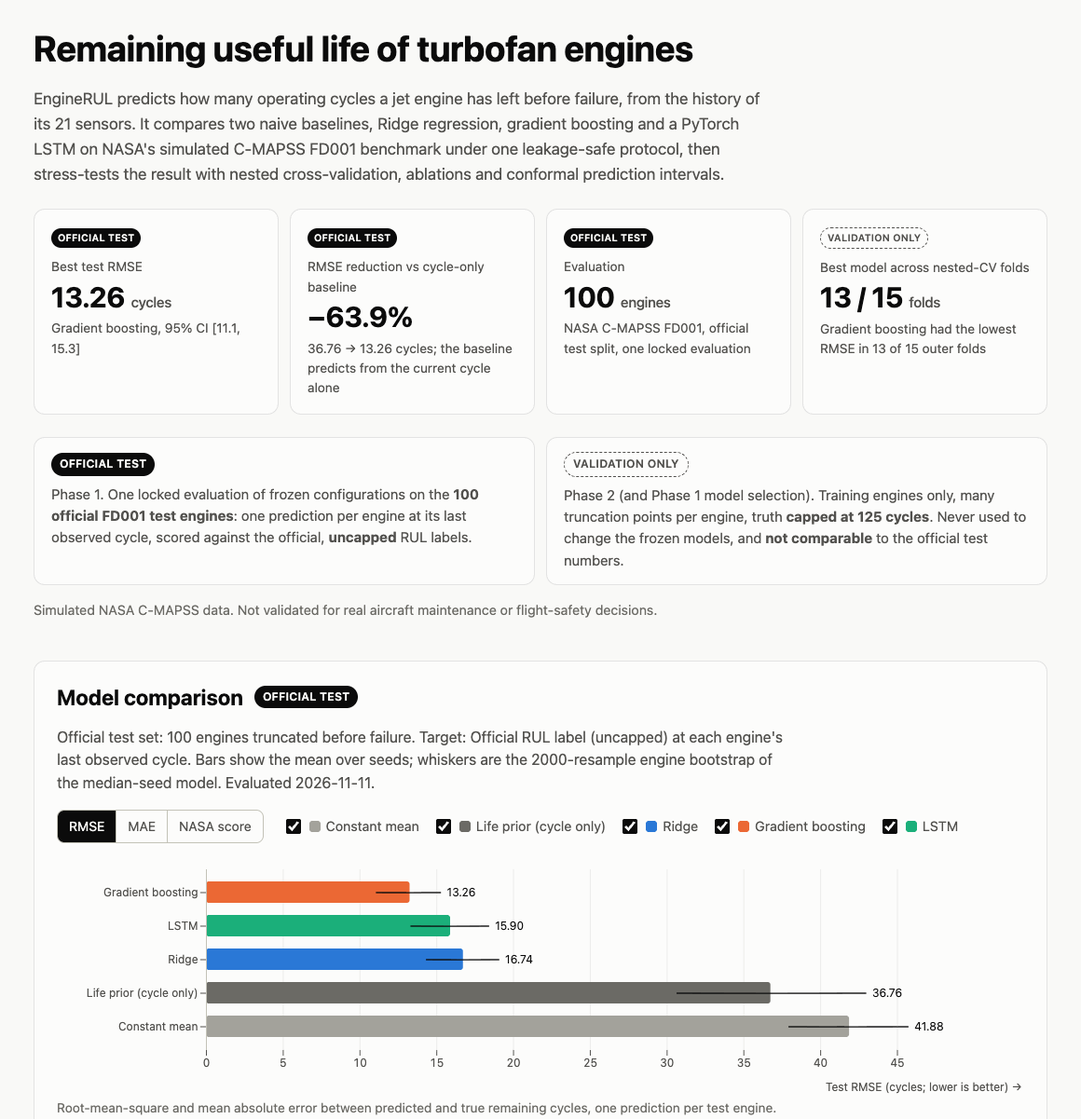
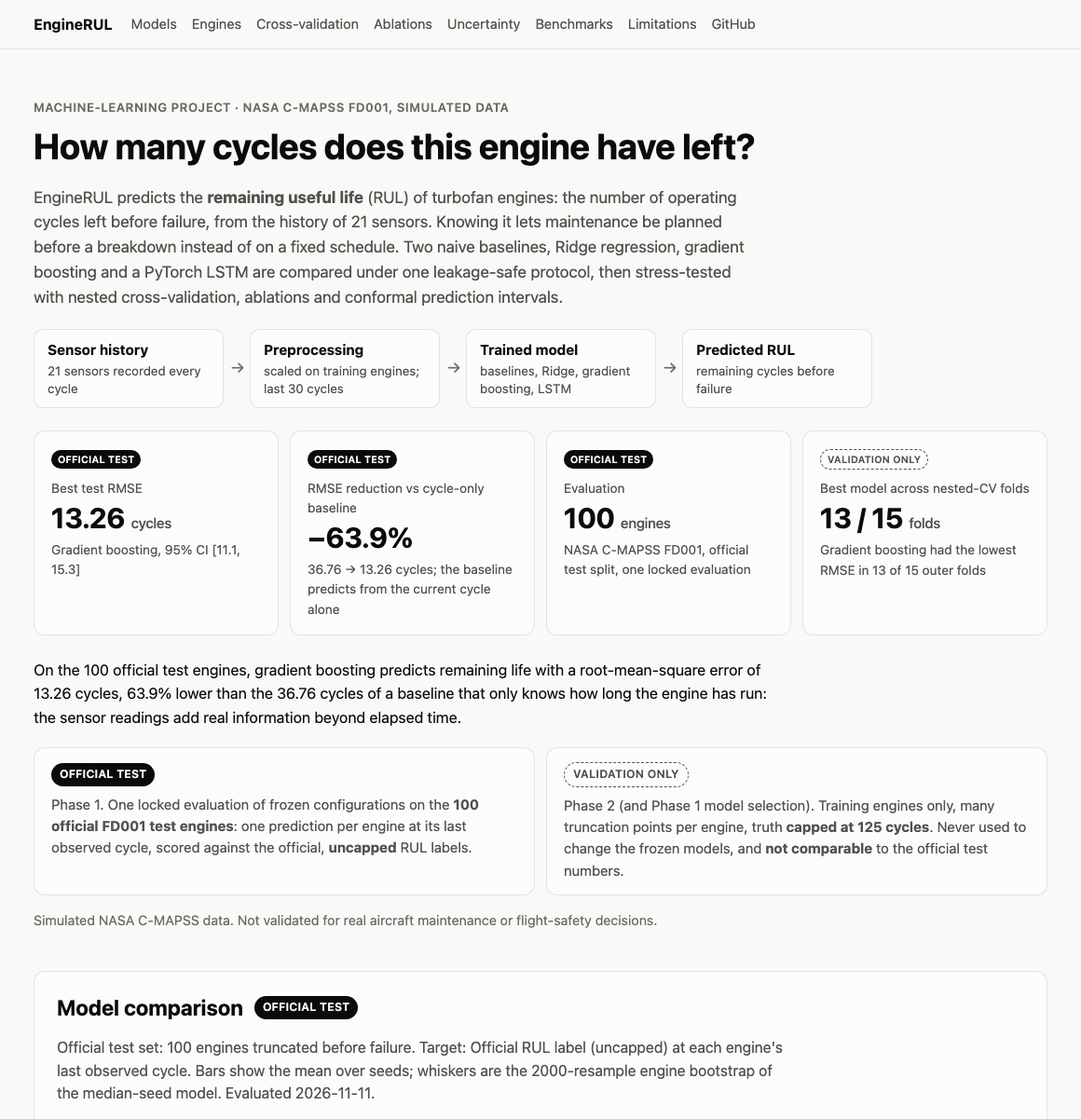
Document Phase 4: README for skimming, isolated reproduction, tests
README: stack line and Pages badge, four highlights, a short section on what
the dashboard lets visitors do, a workflow table that says where each command
writes, runtime and hardware, and a screenshot of the new first screen.
docs/testing.md: isolated reproduction layout, runtime/hardware, CI jobs and
the new tests. docs/decisions.md: P4-01..04 and the post-test-change note
(no result, config or model changed; the test set was not evaluated again).
docs/progress.md and dashboard/README.md updated to match.

diff --git a/README.md b/README.md
@@ -4,7 +4,9 @@ Predicting how many cycles a turbofan engine has left before failure, from the h
 
 **[Interactive results dashboard](https://eliot-2006.github.io/engine-rul/)** · [Phase 1 report](reports/report.md) · [Phase 2 report](reports/phase2_report.md) · [Methods](docs/phase2.md)
 
-[![ci](https://github.com/Eliot-2006/engine-rul/actions/workflows/ci.yml/badge.svg)](https://github.com/Eliot-2006/engine-rul/actions/workflows/ci.yml) Python · PyTorch · scikit-learn · pandas · NumPy · MLflow
+[![ci](https://github.com/Eliot-2006/engine-rul/actions/workflows/ci.yml/badge.svg)](https://github.com/Eliot-2006/engine-rul/actions/workflows/ci.yml) [![pages](https://github.com/Eliot-2006/engine-rul/actions/workflows/pages.yml/badge.svg)](https://github.com/Eliot-2006/engine-rul/actions/workflows/pages.yml)
+
+**Stack:** Python · PyTorch · scikit-learn · pandas · NumPy · MLflow · pytest · TypeScript · Vite · Observable Plot · Playwright · GitHub Actions / Pages
 
 > [!IMPORTANT]
 > C-MAPSS is **simulated** data. These results are not validated for real aircraft maintenance or flight-safety decisions.
@@ -21,7 +23,14 @@ Predicting how many cycles a turbofan engine has left before failure, from the h
 
 ![Left: gradient boosting's predicted vs true remaining useful life for the 100 official test engines, clustered around the diagonal. Right: test RMSE with 95% bootstrap intervals for all five models, from gradient boosting (13.26) to the constant baseline (41.88).](reports/figures/readme/hero.png)
 
-**Contents:** [Overview](#overview) · [Pipeline](#pipeline) · [Models and official results](#models-and-official-results) · [Validation-only findings](#validation-only-findings-phase-2) · [Quick start](#quick-start) · [Documentation](#documentation) · [Limitations](#limitations)
+**Highlights**
+
+- **Leakage-safe protocol.** Engine-level splits, preprocessing fit on training engines only, model selection on validation engines, and one logged evaluation of the frozen models on the official test set.
+- **Five models, one comparison.** Naive baselines through a PyTorch LSTM, scored at identical evaluation points with bootstrap and paired confidence intervals.
+- **Reliability study.** Nested cross-validation, feature ablations, conformal prediction intervals and latency benchmarks, all on training engines only.
+- **Engineering.** About 120 Python tests (unit, leakage, reproducibility, artifact consistency) plus Playwright browser tests in CI; isolated reproduction that never overwrites published results; a static dashboard deployed to GitHub Pages.
+
+**Contents:** [Overview](#overview) · [Pipeline](#pipeline) · [Models and official results](#models-and-official-results) · [Validation-only findings](#validation-only-findings-phase-2) · [Dashboard](#interactive-dashboard) · [Quick start](#quick-start) · [Documentation](#documentation) · [Limitations](#limitations)
 
 ## Overview
 
@@ -126,33 +135,43 @@ Gradient boosting's five seeds produce bit-identical models, so they are not ind
 - 90% split-conformal intervals, empirical coverage on held-out engines: Ridge 89% (mean width 54 cycles), Gradient boosting 91% (mean width 54 cycles), LSTM 94% (mean width 67 cycles).
 <!-- PHASE2:END -->
 
-Pooled RMSE is computed over all held-out predictions; the fold mean averages the 15 per-fold RMSEs. The CIs are approximate because repeated folds share training engines. The one-cut-point-per-engine conformal method has a finite-sample coverage guarantee under exchangeability; with 20 calibration engines per fold its realised coverage varies widely between folds, and no interval is guaranteed for the official test set's truncation process. Every number above can be explored interactively in the [dashboard](https://eliot-2006.github.io/engine-rul/):
+Pooled RMSE is computed over all held-out predictions; the fold mean averages the 15 per-fold RMSEs. The CIs are approximate because repeated folds share training engines. The one-cut-point-per-engine conformal method has a finite-sample coverage guarantee under exchangeability; with 20 calibration engines per fold its realised coverage varies widely between folds, and no interval is guaranteed for the official test set's truncation process.
 
-[![Dashboard overview: headline metric cards and the official-test model comparison chart](reports/figures/readme/dashboard.png)](https://eliot-2006.github.io/engine-rul/)
+## Interactive dashboard
+
+**[eliot-2006.github.io/engine-rul](https://eliot-2006.github.io/engine-rul/)** is a static page (no backend) built from the committed result files. Every section is labelled *Official test* or *Validation only*. Visitors can:
+
+- switch the model comparison between RMSE, MAE and NASA score, and show or hide models;
+- pick any of the 100 test engines, or click its point on the scatter plot, to see every model's prediction and error;
+- follow the frozen models' predictions over the full life of each validation engine;
+- browse nested-CV folds by cut-point strategy, the ablation effects per model, conformal coverage by method and level, and inference latency by batch size.
+
+[![Dashboard overview: the prediction pipeline, headline result cards and the official-test and validation-only protocol labels](reports/figures/readme/dashboard.png)](https://eliot-2006.github.io/engine-rul/)
 
 ## Quick start
 
-Requires [uv](https://docs.astral.sh/uv/) (Python 3.12 is installed automatically) and, for the dashboard only, Node.js ≥ 20.19.
+Requires [uv](https://docs.astral.sh/uv/) (Python 3.12 is installed automatically) and, for the dashboard only, Node.js ≥ 20.19. A laptop CPU is enough; no GPU is needed.
 
 ```bash
 make setup                 # uv sync --frozen
 make data                  # download FD001 (≈6 MB) and verify SHA-256 checksums
-make test                  # unit, leakage, reproducibility, dashboard-export and end-to-end tests
-make repro-check           # retrain the frozen configs, compare with published validation RMSE
+make test                  # unit, leakage, reproducibility, consistency and end-to-end tests
+make repro-check           # retrain the frozen configs (<1 min), compare with the published validation RMSE
 make reports               # reports, README blocks and dashboard data from committed results
 make dashboard             # build the static dashboard into dashboard/dist
-cd dashboard && npm run dev   # browse it locally
+make dashboard-test        # Playwright browser tests against that build
+cd dashboard && npm run dev   # browse it locally at http://localhost:5173/engine-rul/
 ```
 
-| Workflow | Command | Reads official test labels? |
-|---|---|---|
-| Phase 1 training + validation | `make reproduce-phase1` (~15 min CPU) | No |
-| Phase 2 validation experiments | `make phase2` (~1.5 h CPU) | No |
-| Reports, README, dashboard data | `make reports` | No (committed artifacts only) |
-| All of the above | `make reproduce` | No |
-| The original official test evaluation | `make official-test-eval CONFIRM=official-test` | **Yes**: appends a round to the evaluation log |
+| Workflow | Command | Writes to | Reads official test labels? |
+|---|---|---|---|
+| Phase 1 training + validation | `make reproduce-phase1` (~15 min CPU) | `build/reproduce/` | No |
+| Phase 2 validation experiments | `make phase2` (~1.5 h CPU; needs Phase 1 runs) | `build/reproduce/` | No |
+| Both of the above | `make reproduce` | `build/reproduce/` | No |
+| Reports, README, dashboard data | `make reports` | `reports/`, `README.md`, `dashboard/public/` (from committed results) | No |
+| The original official test evaluation | `make official-test-eval CONFIRM=official-test` | `results/final/`, evaluation log | **Yes**: appends a round to the log |
 
-Published artifacts are never overwritten unless `FORCE=--force` is given. Predict for new sensor files with `uv run engine-rul predict --run <run dir> --input <sensor file>`; models trained in Phase 2's conformal run add calibrated intervals (`--levels 0.8 0.9`). Committed results were produced on CPU (Apple M3 Pro), where training is bit-for-bit deterministic; CI re-runs the fast frozen configs on Linux and matches the published validation RMSE within 1e-3.
+Reproduction writes to `build/reproduce/` (change it with `OUT=<dir>`), laid out like the repository, so a fresh clone can retrain everything and compare with the published results without touching them; rerunning into the same directory refuses to overwrite unless `FORCE=--force` is given. Timings are from the development machine (Apple M3 Pro, CPU only), where training is bit-for-bit deterministic; CI re-runs the fast frozen configs on Linux and matches the published validation RMSE within 1e-3. Predict for new sensor files with `uv run engine-rul predict --run <run dir> --input <sensor file>`; models trained in Phase 2's conformal run add calibrated intervals (`--levels 0.8 0.9`).
 
 ## Documentation
 
@@ -166,7 +185,7 @@ Published artifacts are never overwritten unless `FORCE=--force` is given. Predi
 | Reproducibility, provenance and tests | [`docs/testing.md`](docs/testing.md) |
 | Module architecture and diagrams | [`docs/pipeline.md`](docs/pipeline.md) |
 | Design decisions and post-test changes | [`docs/decisions.md`](docs/decisions.md) |
-| Dashboard build and data export | [`dashboard/README.md`](dashboard/README.md) |
+| Dashboard build, data export and browser tests | [`dashboard/README.md`](dashboard/README.md) |
 
 ## Limitations
 

diff --git a/docs/testing.md b/docs/testing.md
@@ -7,13 +7,22 @@ uv run pytest -q                 # everything (real-data tests skip if data/raw 
 uv run pytest -q -m "not data"   # synthetic-only (no download needed; what CI runs first)
 uv run pytest -q -m data         # real FD001 checks (after `make data`)
 uv run ruff check src tests
-cd dashboard && npm ci && npm run check && npm run build   # dashboard type check, build, bundle checks
+uv run ruff format --check src tests
+make dashboard        # export data, npm ci, TypeScript check, build, bundle checks
+make dashboard-test   # Playwright browser tests against the build (installs Chromium once)
 ```
 
 `npm run build` runs `dashboard/scripts/check-dist.mjs`: every asset referenced by `index.html` must
 exist under the `/engine-rul/` base path, all seven data files must be present with the expected
-`protocol`, and the bundle must stay under 1.5 MB. The `pages` workflow runs `tests/test_phase3.py`,
-the export, the type check and the build on every pull request.
+`protocol`, the canonical / Open Graph / Twitter tags must point at the bundled 1200×630 preview image,
+and the bundle must stay under 1.5 MB. The browser tests (`dashboard/e2e/`) are described in
+[`dashboard/README.md`](../dashboard/README.md#tests).
+
+CI: the `ci` workflow runs lint, the synthetic tests, the dataset download, the real-data tests and a
+`repro-check` smoke test. The `pages` workflow runs `tests/test_phase3.py` and
+`tests/test_consistency.py`, the export, the type check and the build (`build` job), then Playwright
+against that exact bundle (`e2e` job, Chromium headless shell only). Pull requests never deploy;
+pushes to `main` deploy only after `e2e` passes.
 
 Unit tests use a synthetic, C-MAPSS-shaped dataset built in `tests/conftest.py` (10 training and 5 test engines, the same constant/two-valued columns as FD001, trailing spaces). No test asserts model accuracy on real data.
 
@@ -31,7 +40,8 @@ Unit tests use a synthetic, C-MAPSS-shaped dataset built in `tests/conftest.py` 
 | `test_reproducibility.py` | same seed → same predictions (Ridge/HGB 1e-6, LSTM 1e-3 on CPU), config hashing, config validation (TEST-REPRO-*) |
 | `test_e2e_smoke.py` | tune → final → locked test eval → benchmark → report on synthetic data; `summary.json` schema; `final` refuses unfrozen configs; test eval rejects non-final runs (TEST-E2E-01) |
 | `test_phase3.py` | dashboard export writes every file with its protocol tag; headline derived from `summary.json`; official-test and validation results never share a file; consistent model identifiers and units; missing / malformed / NaN / unknown-model / test-set-flagged artifacts rejected with nothing written; frontend protocol map and schema version match the exporter; Pages base path matches the repository; README generated blocks are current; local links and images in README and `docs/` resolve; every published Phase-2 manifest's source snapshot is committed and hash-verified; `reproduce`, `reproduce-phase1`, `phase2` and `reports` never run `--split test`, and `official-test-eval` refuses without `CONFIRM` |
-| `test_phase2.py` | CV folds partition engines and are deterministic; overlapping fold files rejected; inner roles disjoint; endpoints deterministic, valid and independent of fold membership; per-fold preprocessor fit on inner-train only; identical endpoints for every model; CV determinism (two runs → identical predictions); calibration engines disjoint from fit/selection/outer; conformal finite-sample coverage on exchangeable synthetic scores; Mondrian bins; intervals don't change point predictions; experiment-directory isolation; published test summary write-protected; frozen config hashes unchanged |
+| `test_consistency.py` | README tables, `reports/report.md`, dashboard data and the dashboard's static link-preview text all show the `summary.json` numbers; the 100 official test predictions are complete, finite, non-negative and reproduce each model's published RMSE / MAE (within its bootstrap CI for the LSTM's median seed); 11 test engines above the 125 cap; every CI contains its estimate and "clear difference" means exactly "CI excludes 0" (official, CV, ablation), conformal coverage lies within its fold range; every dashboard source file is committed; the export is byte-for-byte deterministic; the preview image is 1200×630; `make reproduce` and `make repro-check` write only under `build/reproduce/` |
+| `test_phase2.py` | CV folds partition engines and are deterministic; overlapping fold files rejected; inner roles disjoint; endpoints deterministic, valid and independent of fold membership; per-fold preprocessor fit on inner-train only; identical endpoints for every model; CV determinism (two runs → identical predictions); calibration engines disjoint from fit/selection/outer; conformal finite-sample coverage on exchangeable synthetic scores; Mondrian bins; intervals don't change point predictions; experiment-directory isolation; published test summary and Phase 1 benchmarks write-protected; benchmarks pick the median seed from `summary.json` or, in an isolated reproduction, the first seed of `final_runs.json`; frozen config hashes unchanged |
 
 ## Reproducibility notes
 
@@ -43,5 +53,6 @@ Unit tests use a synthetic, C-MAPSS-shaped dataset built in `tests/conftest.py` 
 - **Data versioning:** each run records the SHA-256 of the training file, the split file and the fitted preprocessor; each test evaluation records the test and label file hashes.
 - **Test-set honesty:** `results/test_evaluations.jsonl` is append-only and committed; `docs/decisions.md` lists any post-test changes.
 - **Provenance:** Phase 1 was trained and evaluated at commit `c457958` with uncommitted changes (recorded as `git_dirty: true` in every `run.json` and test-log entry); Phase-1 runs predate source snapshots, so that exact working tree is not archived. What is verifiable: the frozen configs are hash-checked against `results/final/summary.json` and `repro-check` reproduces their validation RMSE exactly from the current code. Phase-2 manifests reference committed, hash-verified source snapshots (see `docs/phase2.md`). New experiments run from a dirty tree write a snapshot automatically; force-add it with the results (`git add -f results/snapshots/<id>.tar.gz`; `tests/test_phase3.py` fails until you do), or run from a clean commit.
-- **Workflows and the test set:** `make reproduce` (= `reproduce-phase1` + `phase2` + `reports`) never reads the official test labels. The original evaluation is a separate, explicit step: `make official-test-eval CONFIRM=official-test` (add `FORCE=--force` to replace `results/final/summary.json`); it appends a round to the append-only log.
-- **Not reproducible from a fresh clone without retraining:** per-run folders (`results/<run_id>/`, models) are git-ignored. `make reproduce-phase1` regenerates them in about 15 minutes on the development machine (Apple M3 Pro, CPU). Measured stage times from the logs: HGB tuning ≈ 3 min, LSTM tuning ≈ 3.5 min, sensitivity study ≈ 3 min, 5-seed final training ≈ 2.5 min; baselines, Ridge, test evaluation, benchmarks and report take under a minute each.
+- **Workflows and the test set:** `make reproduce` (= `reproduce-phase1` + `phase2`) never reads the official test labels, and neither does `make reports`, which only regenerates reports, README blocks and dashboard data from the committed results. The original evaluation is a separate, explicit step: `make official-test-eval CONFIRM=official-test` (add `FORCE=--force` to replace `results/final/summary.json`); it appends a round to the append-only log.
+- **Isolated reproduction:** training and experiment targets write under `OUT` (default `build/reproduce/`, git-ignored), laid out like the repository: `results/` (runs, `final_runs.json`, tuning and sensitivity JSON, benchmarks), `configs/final/` (re-selected configs), `results/phase2/` and `reports/` (EDA figures, `phase2_report.md`). A fresh clone can therefore run `make reproduce` and compare with the published files without overwriting them; running again into the same `OUT` refuses to overwrite (pass `FORCE=--force` or another `OUT`). `OUT=.` targets the published locations, still guarded by `FORCE`. What stays fixed: Phase 2 uses the published frozen configs (`configs/final/`) exactly as the original Phase 2 did, and the ablation's determinism check compares its recomputed base models with the published CV predictions. Without a test evaluation there is no median seed, so an isolated benchmark times the first seed (latency does not depend on the seed). `make repro-check` is the quick automated comparison: it retrains every frozen config with seed 0 into `OUT` and compares with the published validation RMSE.
+- **Runtime and hardware:** measured on the development machine (Apple M3 Pro, 11 cores, 18 GB RAM, CPU only; no GPU needed). `make reproduce-phase1` ≈ 15 min (HGB tuning ≈ 3 min, LSTM tuning ≈ 3.5 min, sensitivity ≈ 3 min, 5-seed final training ≈ 2.5 min; baselines, Ridge, EDA and benchmarks under a minute each); `make phase2` ≈ 1.5 h (nested CV alone 48 min); `make repro-check` < 1 min. Linux works too (CI); on non-Apple machines the benchmarks run on CPU only (`DEVICES`, default `cpu mps` on macOS). Expect small last-digit differences on other platforms and BLAS builds (CI tolerance 1e-3).

diff --git a/docs/decisions.md b/docs/decisions.md
@@ -60,10 +60,19 @@ during implementation. Anything that changes a frozen config after a test evalua
 |---|---|---|
 | P3-01 | Static dashboard (Vite + TypeScript + Observable Plot) fed by JSON exported from committed artifacts; no backend or live inference | Free GitHub Pages hosting; nothing to keep running. Observable Plot (~100 KB gzipped bundle in total) instead of Plotly (~1 MB) covers tooltips and every chart type needed. |
 | P3-02 | One JSON file per evaluation protocol, tagged with `protocol`; the frontend refuses a file whose tag doesn't match the chart | Official-test and validation-only numbers use different targets and cut points and must never be plotted together by accident. |
-| P3-03 | `make reproduce` = Phase 1 training + Phase 2 + reports; the official test evaluation is `make official-test-eval CONFIRM=official-test` | Default workflows never read the test labels; re-evaluating is deliberate and still logged. |
+| P3-03 | `make reproduce` = Phase 1 training + Phase 2 + reports; the official test evaluation is `make official-test-eval CONFIRM=official-test` | Default workflows never read the test labels; re-evaluating is deliberate and still logged. (Phase 4 moved reproduction to an isolated directory and dropped `reports` from it; see P4-01.) |
 | P3-04 | Commit (force-add) the source snapshots referenced by published Phase-2 manifests; a test fails if a published manifest references an uncommitted or mismatching snapshot | They were git-ignored, so the recorded provenance pointed at files only on the development machine. The committed archives are the originals (content hashes verified), not re-creations. |
 | P3-05 | README result blocks and the hero figure are generated (`engine-rul readme`) and a test fails if they are stale | No hand-maintained numbers in the README. |
 | P3-06 | Exported numbers are rounded once, to display precision (cycles: 2 decimals) | Rounding 13.2648 to 13.265 and formatting again would show 13.27; the README and dashboard must show the published 13.26. |
+
+## Phase 4 decisions (reliability and presentation; no metric changes)
+
+| ID | Decision | Rationale |
+|---|---|---|
+| P4-01 | Training and experiment targets write under `OUT` (default `build/reproduce/`), laid out like the repository; `OUT=.` targets the published locations, still guarded by `FORCE`. `make reproduce` = Phase 1 + Phase 2 only | On a fresh clone `make reproduce` stopped at the first `tune` (the frozen configs exist) and `make repro-check` refused (its committed output directory exists); the only way forward was `FORCE=--force`, which overwrites published artifacts. Now the documented commands run end to end and leave every published file untouched. |
+| P4-02 | `engine-rul benchmark` (Phase 1) refuses to overwrite an existing `benchmarks.json` without `--force`; without a `summary.json` it times the first seed in `final_runs.json` | It was the one published artifact that `make bench` overwrote silently. The median seed is chosen by test RMSE, which an isolated reproduction does not have; latency does not depend on the seed. |
+| P4-03 | Playwright browser tests (Chromium only) run in a separate `e2e` job against the exact bundle the `build` job produced; `deploy` needs both | Exercises the interactions, error states and layouts that unit tests cannot, without slowing the Python CI job; a dashboard that fails its browser tests is never deployed. |
+| P4-04 | The link-preview image (`dashboard/public/og.png`) is generated from `summary.json` by `engine-rul readme`; the static `index.html` description quotes the headline numbers and a test checks them against the results | Crawlers read the static HTML, not the data files, so the numbers must be in the page; the test keeps them from drifting. |
 
 ## Post-test changes
 
@@ -89,6 +98,10 @@ Changes made after that evaluation affect presentation only and do not touch any
   now reports pooled CV RMSE next to its own CI (previously the fold mean sat next to the pooled
   CI). New generated hero figure and a static dashboard built from the same committed numbers. The
   official test set was not evaluated again and no metric, config or model changed.
+
+- Phase 4: reproduction workflow isolation (P4-01, P4-02), browser and consistency tests, dashboard
+  accessibility and presentation, link-preview metadata and README edits. No result file under
+  `results/`, no frozen config and no model changed; the official test set was not evaluated again.
 
 The validation→test ranking flip between LSTM and gradient boosting was **not** acted on: the LSTM
 was not re-tuned and gradient boosting was not re-selected after seeing test results.

diff --git a/dashboard/README.md b/dashboard/README.md
@@ -10,7 +10,11 @@ cd dashboard && npm ci
 npm run dev                             # http://localhost:5173/engine-rul/
 npm run check                           # TypeScript type check
 npm run build                           # dashboard/dist + scripts/check-dist.mjs
+npx playwright install chromium         # once
+npm run e2e                             # Playwright browser tests against dashboard/dist
 ```
+
+`make dashboard` and `make dashboard-test` run the same steps from the repository root.
 
 ## Data
 
@@ -33,15 +37,44 @@ Each file holds exactly one evaluation protocol. The frontend's loader (`src/dat
 `protocol` field against the chart that asked for it, so official-test and validation-only numbers
 cannot be mixed by accident; a missing or mismatched file shows an error in that section only.
 
+## Tests
+
+`scripts/check-dist.mjs` (run by `npm run build`) checks the bundle itself: every local asset sits under
+the `/engine-rul/` base path, all seven data files carry the expected `protocol`, the canonical URL,
+Open Graph and Twitter tags point at the bundled 1200×630 `og.png`, and the bundle stays under 1.5 MB.
+
+`e2e/dashboard.spec.ts` (Playwright, Chromium) drives the production build served by `vite preview`
+under `/engine-rul/`. Expected values are read from `dist/data/` plus literal anchors from the
+published evaluation (13.26 cycles, −63.9%, 100 engines, 13 / 15 folds). It covers: loading every data
+file without uncaught exceptions or console errors; headline cards, model names and protocol badges;
+the RMSE / MAE / NASA-score switch; showing and hiding models; engine selection by menu and by clicking
+a scatter point; validation-trajectory switching; the cross-validation, ablation, uncertainty and
+benchmark controls; no horizontal overflow or overlapping controls at 375, 768 and 1440 px; navigation
+links, the skip link, arrow-key radio groups and accessible names; reduced motion; and the error states
+for a missing file (HTTP 404), a file with the wrong protocol and malformed core data. Tests tagged
+`@mobile` also run on a 375-px touch viewport.
+
+After a deployment, `E2E_BASE_URL=https://eliot-2006.github.io/engine-rul/ npm run e2e` runs the same tests
+against the live site (they read expected values from the local `dist/data/`, so build from the same commit).
+
 ## Deployment
 
-`.github/workflows/pages.yml` regenerates the data, type-checks, builds and checks the bundle on every
-pull request, and deploys `dashboard/dist` to GitHub Pages on pushes to `main`. The site is served
+`.github/workflows/pages.yml` regenerates the data, type-checks, builds and checks the bundle, then runs
+the Playwright tests against that exact build (`e2e` job) on every pull request. Pull requests never
+deploy; pushes to `main` deploy `dashboard/dist` to GitHub Pages only after the `e2e` job passes. The site is served
 from `/engine-rul/` (`vite.config.ts`; override with `DASHBOARD_BASE=/` for a root deployment).
 One-time repository setting: **Settings → Pages → Build and deployment → Source: GitHub Actions**.
 
 ## Design notes
 
 Colours follow a colour-vision-deficiency-checked palette (learned models in blue / orange / aqua,
-baselines in neutral greys), with separate steps for dark mode. Every chart has hover tooltips; tables
-accompany the main charts. Dependencies are pinned exactly in `package.json` / `package-lock.json`.
+baselines in neutral greys), with separate steps for dark mode. Every chart has hover tooltips and an
+accessible name; tables accompany the main charts, and every chart can also be driven from labelled
+form controls. Segmented controls follow the ARIA radio-group pattern (one tab stop, arrow keys), and
+smooth scrolling is turned off under `prefers-reduced-motion`. Dependencies are pinned exactly in
+`package.json` / `package-lock.json`.
+
+The link-preview image `public/og.png` is generated by `engine-rul readme` from
+`results/final/summary.json` (`dashboard.social_card`), alongside the README hero figure. The
+`index.html` description and Open Graph / Twitter text quote the headline numbers;
+`tests/test_consistency.py` fails if they drift from the committed results.

diff --git a/docs/progress.md b/docs/progress.md
@@ -34,11 +34,22 @@ Last updated: 2026-11-10 (local). Status: **MVP complete; Phase 2 (validation-on
 | P2-M7 Reproducibility check | ✅ | `engine-rul repro-check`: all 5 frozen configs reproduce validation RMSE exactly; CI smoke step |
 | P2-M8 Report and docs | ✅ | `reports/phase2_report.md`, `docs/phase2.md`, README Phase-2 block (generated) |
 
+## Phase 4 milestones (reliability and presentation — no result, config or model changed)
+
+| Milestone | Status | Evidence |
+|---|---|---|
+| P4-M1 Isolated reproduction | ✅ | `make reproduce-phase1 OUT=<tmp>` from the committed code: 12 min 51 s, exit 0; every selected hyperparameter, config hash, sensitivity and per-seed validation RMSE identical to the published ones (\|Δ\| = 0); `make repro-check` 37 s, all OK; no tracked file changed |
+| P4-M2 Browser tests | ✅ | `dashboard/e2e/` (Playwright, Chromium): 15 tests, 22 runs with the 375-px mobile project; `e2e` CI job gates deployment |
+| P4-M3 Consistency checks | ✅ | `tests/test_consistency.py`: reports, README, dashboard data and link-preview text agree with `summary.json`; predictions reproduce the metrics; CI semantics; deterministic export |
+| P4-M4 Dashboard presentation and accessibility | ✅ | intro with prediction pipeline and takeaway; tablet layout; arrow-key radio groups; named charts; loading and per-section error states |
+| P4-M5 Link previews | ✅ | canonical, Open Graph and Twitter tags; generated 1200×630 `og.png`; favicon |
+
 ## Tests
 
 | Run | Result |
 |---|---|
-| `uv run pytest -q` (synthetic + real data) | **87 passed** (74 Phase 1 + 13 Phase 2) |
+| `uv run pytest -q` (synthetic + real data) | **120 passed** (74 Phase 1 + 14 Phase 2 + 24 Phase 3 + 8 consistency) |
+| `npm run e2e` (Playwright, Chromium) | **22 passed** (15 desktop + 7 mobile) |
 | `uv run ruff check src tests` | clean |
 | `uv run ruff format --check src tests` | clean |
 | `uvx mypy src --ignore-missing-imports` (not part of the PRD toolchain) | 27 findings, almost all "fitted attribute may be `None`" patterns in model/preprocessor classes; one real edge case (`train.final([])` with no families crashes). None affect recorded results |
@@ -90,7 +101,7 @@ See [`decisions.md`](decisions.md): ADR-14 (CPU training), D-02 (`data verify` r
 
 1. `make setup data` on a fresh clone; `uv run pytest -q` runs the whole suite.
 2. Reports, README blocks and dashboard data are regenerated without retraining via `make reports` (reads `results/final/` and `results/phase2/` only).
-3. `make reproduce-phase1 FORCE=--force` (~15 min CPU) retrains Phase 1 and **overwrites** published Phase-1 run artifacts; it does not touch the test set. To check reproducibility without touching anything, use `make repro-check`.
-4. Phase 2: `make phase2` (~1.5 h CPU) re-runs CV, ablations, conformal and benchmarks into `results/phase2/` (refuses to overwrite; add `FORCE=--force`), then `make report-phase2`.
+3. `make reproduce-phase1` (~15 min CPU) retrains Phase 1 into `build/reproduce/` (`OUT=<dir>` to change) without touching published artifacts or the test set. `make repro-check` (<1 min) is the quick automated comparison with the published validation RMSE.
+4. Phase 2: `make phase2` (~1.5 h CPU) re-runs CV, ablations, conformal, benchmarks and the Phase 2 report into the same `OUT` (refuses to overwrite; add `FORCE=--force`). `OUT=.` targets the published locations and also needs `FORCE=--force`.
 5. The official test evaluation is a separate opt-in: `make official-test-eval CONFIRM=official-test`. It appends a round to `results/test_evaluations.jsonl`, which must be explained in `docs/decisions.md`.
-6. Dashboard: `make dashboard`; deployment is `.github/workflows/pages.yml` (needs *Settings → Pages → Source: GitHub Actions* once).
+6. Dashboard: `make dashboard`, then `make dashboard-test` for the browser tests; deployment is `.github/workflows/pages.yml` (needs *Settings → Pages → Source: GitHub Actions* once) and runs only from `main` after the `e2e` job passes.
